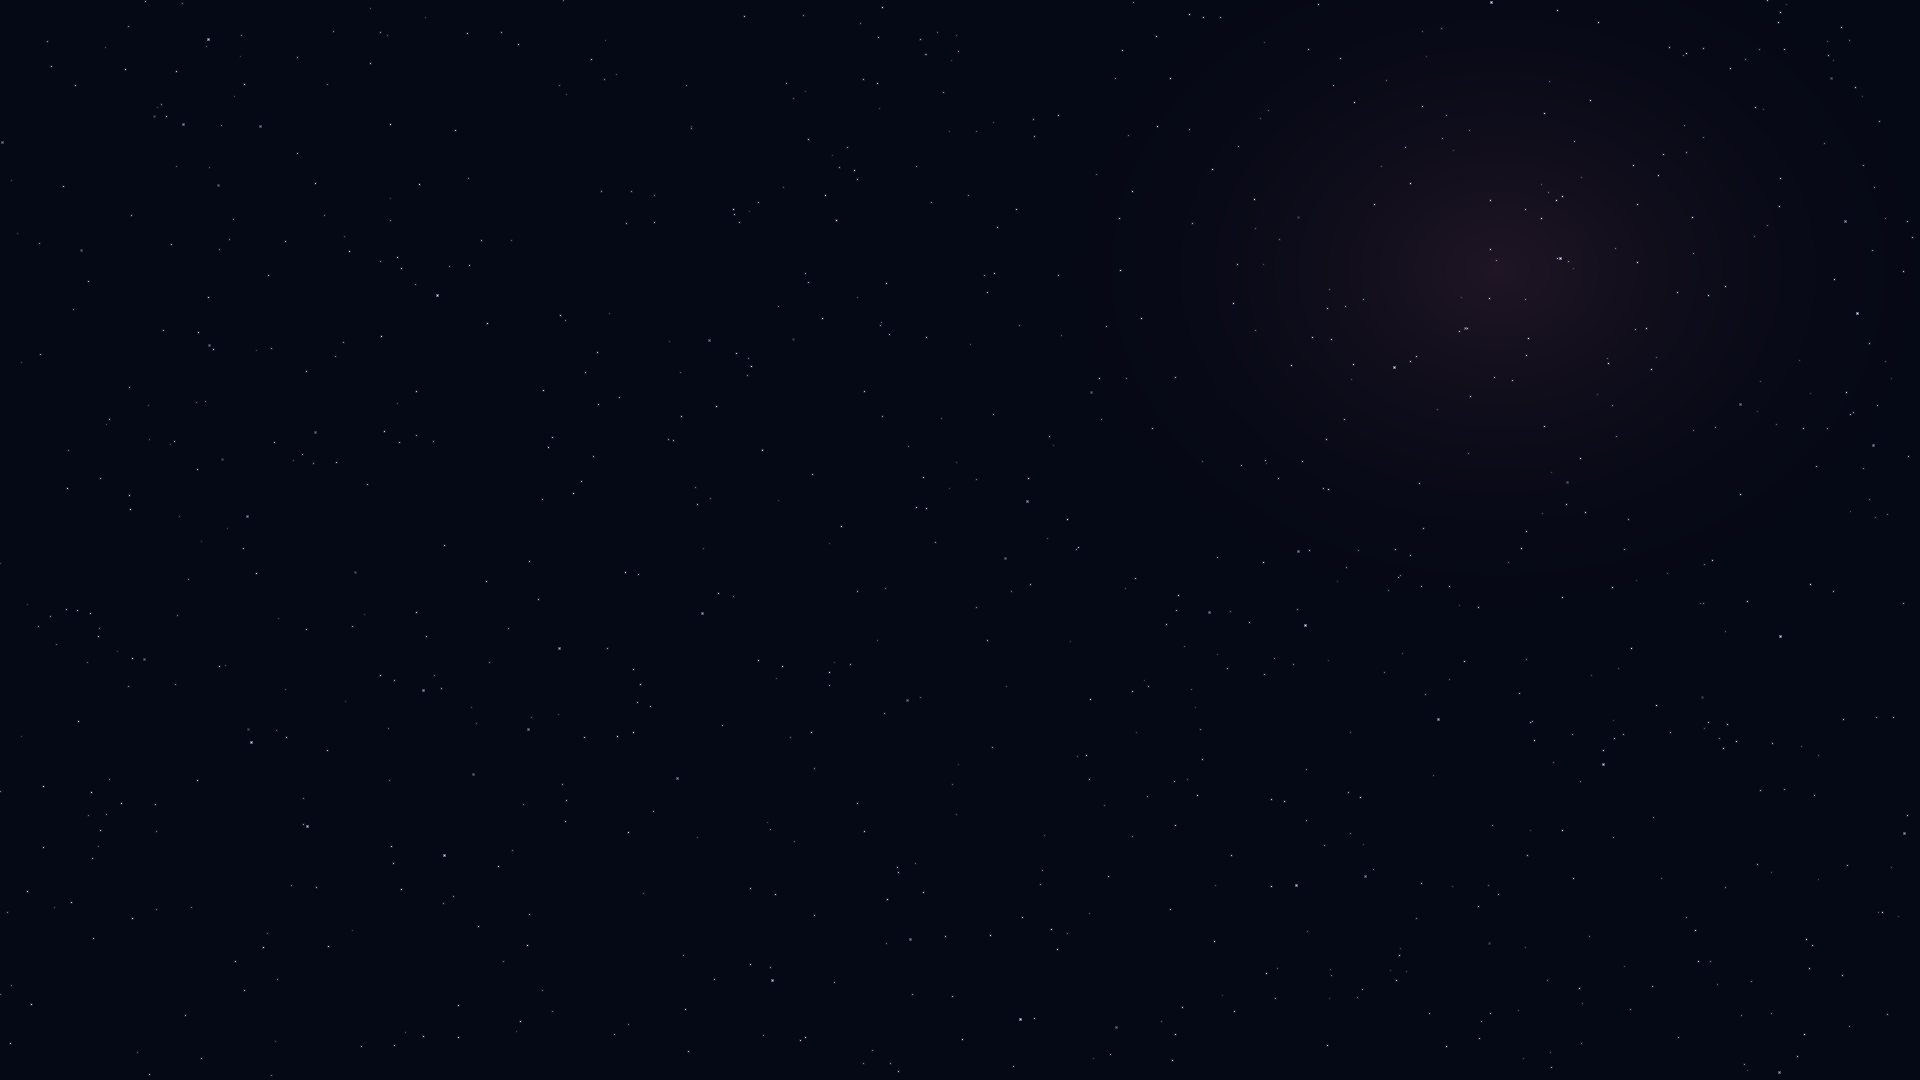
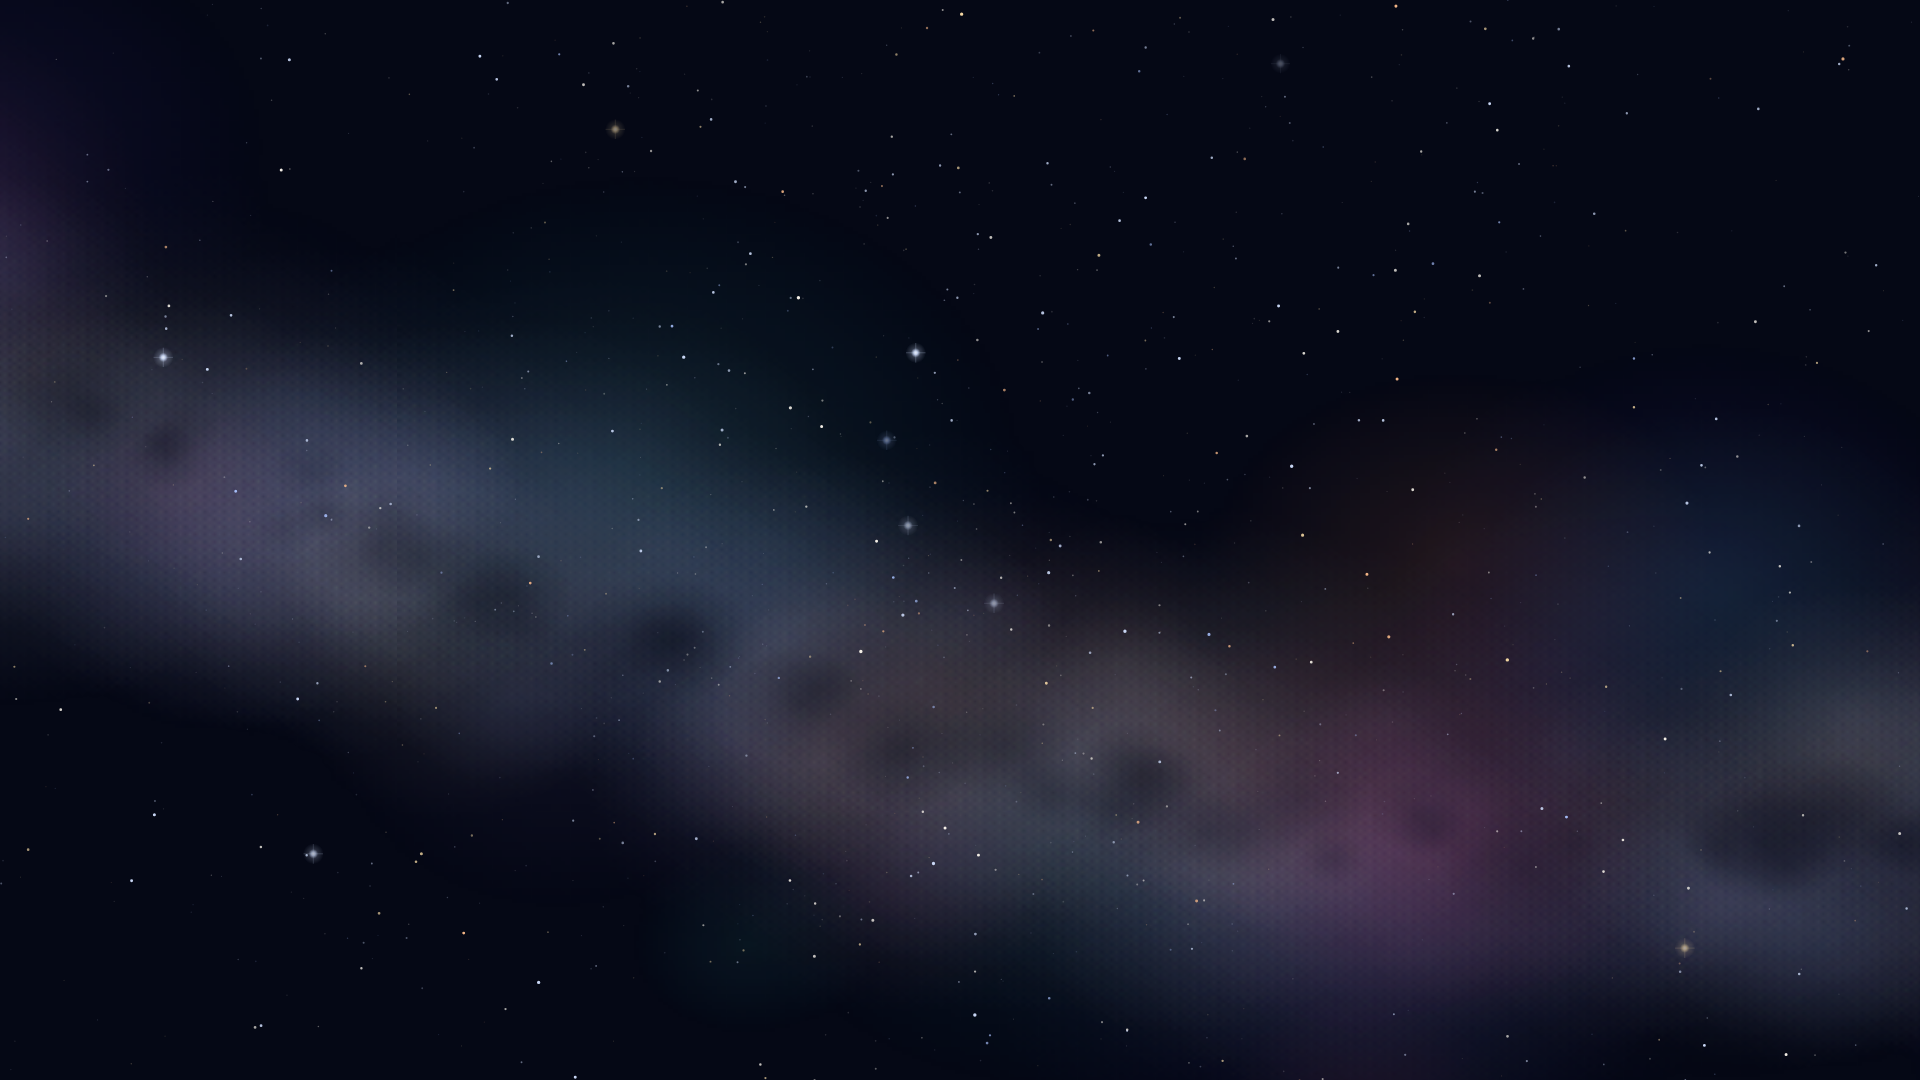
0.2.38: vergrendelscherm in de nieuwe ruimte (sterren.png/vergrendeld.png opnieuw), vergrendel-/ontgrendelanimatie met warp, gtklock-kaart schuift in beeld; test vergrendelscherm

diff --git a/scripts/assets/maak-vergrendeld.html b/scripts/assets/maak-vergrendeld.html
@@ -19,6 +19,8 @@ p.a{top:880px;font-size:26px;color:#e2e6fa}p.b{top:925px;font-size:21px;color:#8
 /* ?overgang maakt scripts/assets/overgang.png: het laatste beeld van het inlogscherm na de ontploffing (alleen de
    gedimde sterren, login.css #stars.fade). De sessie toont het meteen (swaybg) tot het 3D-bureaublad er is. */
 .overgang #nebula,.overgang #glow,.overgang #earth,.overgang h1,.overgang p{display:none}.overgang #sky{opacity:.35}
+/* ?sterren (0.2.38) maakt scripts/assets/sterren.png: alleen de ruimte (sterrenhemel.js: nevels, gekleurde sterren), de achtergrond van gtklock. */
+.sterren #nebula,.sterren #glow,.sterren #earth,.sterren h1,.sterren p{display:none}
 </style></head><body>
 <div id="nebula"></div><div id="sky"></div><div id="glow"></div><div id="earth"></div>
 <h1>Vergrendeld</h1><p class="a">Typ je wachtwoord en druk op Enter.</p><p class="b">Je programma's en open vensters blijven gewoon staan.</p>
@@ -26,6 +28,7 @@ p.a{top:880px;font-size:26px;color:#e2e6fa}p.b{top:925px;font-size:21px;color:#8
 import {earthNow} from '../../pakket/universe-os/usr/share/universe-os/ui/globe.js';
 import {DEFAULT_CAM,distFor,drawSky} from '../../pakket/universe-os/usr/share/universe-os/ui/space.js';
 if(location.search.includes('overgang'))document.body.classList.add('overgang');
+if(location.search.includes('sterren'))document.body.classList.add('sterren');
 const cam={...DEFAULT_CAM,dist:distFor(650)};
 document.getElementById('sky').append(drawSky(document.createElement('canvas'),cam,1920,1080,4/3));
 document.getElementById('earth').append(earthNow(800));

diff --git a/pakket/universe-os/usr/share/universe-os/gtklock/style.css b/pakket/universe-os/usr/share/universe-os/gtklock/style.css
@@ -51,6 +51,11 @@ button#unlock-button {
 /* The desktop has just flown into the Earth (world.js 'out'): the card and the time fade in softly instead of
    appearing at once (Axel, 14 Oct). Only opacity: cheap without a GPU, and GTK skips it with reduced animations. */
 @keyframes lock-in { from { opacity: 0; } to { opacity: 1; } }
-#window-box { animation: lock-in 450ms ease-out; }
-#clock-label, #date-label { animation: lock-in 700ms ease-out; }
 #error-label { animation: lock-in 200ms ease-out; }
+
+/* 0.2.38 (Jesse: 'geld ook voor vergrendelscherm'): the lock screen continues the lock animation: the card rises out of
+   the light of the Earth and the clock fades in. GTK CSS keyframes only (opacity and margin, no filters): the same in the light mode. Replaces the plain fade of 14 Oct. */
+@keyframes universe-kaart-in { from { opacity: 0; margin-top: 40px; } to { opacity: 1; margin-top: 0; } }
+@keyframes universe-klok-in { from { opacity: 0; } to { opacity: 1; } }
+#window-box { animation: universe-kaart-in 900ms cubic-bezier(0.2, 0.9, 0.3, 1) both; }
+#clock-label, #date-label { animation: universe-klok-in 1200ms ease-out both; }

diff --git a/docs/tests/vergrendelscherm.py b/docs/tests/vergrendelscherm.py
@@ -1,0 +1,22 @@
+"""0.2.38 vergrendelscherm (Jesse t132u/t133u): dezelfde nieuwe ruimte en mooiere animaties bij vergrendelen en
+ontgrendelen, vol en licht (zelfde verloop, minder kwaliteit)."""
+import re, sys
+from pathlib import Path
+ROOT = Path(__file__).resolve().parents[2]
+P = ROOT / 'pakket/universe-os'
+fails = []
+def check(name, ok):
+    print(('OK   ' if ok else 'FOUT ') + name)
+    if not ok:
+        fails.append(name)
+world = (P / 'usr/share/universe-os/ui/world.js').read_text()
+lock = (P / 'usr/bin/universe-lock').read_text()
+css = (P / 'usr/share/universe-os/gtklock/style.css').read_text()
+out_ms = int(re.search(r"animate\(dir==='in'\?(\d+):(\d+)", world).group(2))
+sleep = float(re.search(r'sleep ([\d.]+)', lock).group(1))
+check('vergrendelen wacht precies de uitloop-animatie af (%d ms / sleep %.1f s)' % (out_ms, sleep), abs(out_ms / 1000 - sleep) < 0.05)
+check('vergrendelen/ontgrendelen: sterren worden lichtstrepen (warp)', "warp=Math.sin(Math.PI*e)*.8" in world and "on('lock-begin'" in world and "on('unlock'" in world)
+check('lichte modus: zelfde warp (geen apart pad), minder sterren', 'licht:SKY_LIGHT(),warp' in world)
+check('gtklock: kaart en klok komen in beeld (keyframes, geen blur)', '@keyframes universe-kaart-in' in css and 'animation: universe-kaart-in' in css and 'blur' not in css)
+check('gtklock-achtergrond is de nieuwe ruimte (sterren.png uit sterrenhemel.js, 1920x1080)', (ROOT / 'scripts/assets/sterren.png').stat().st_size > 300000)
+sys.exit(1 if fails else 0)
